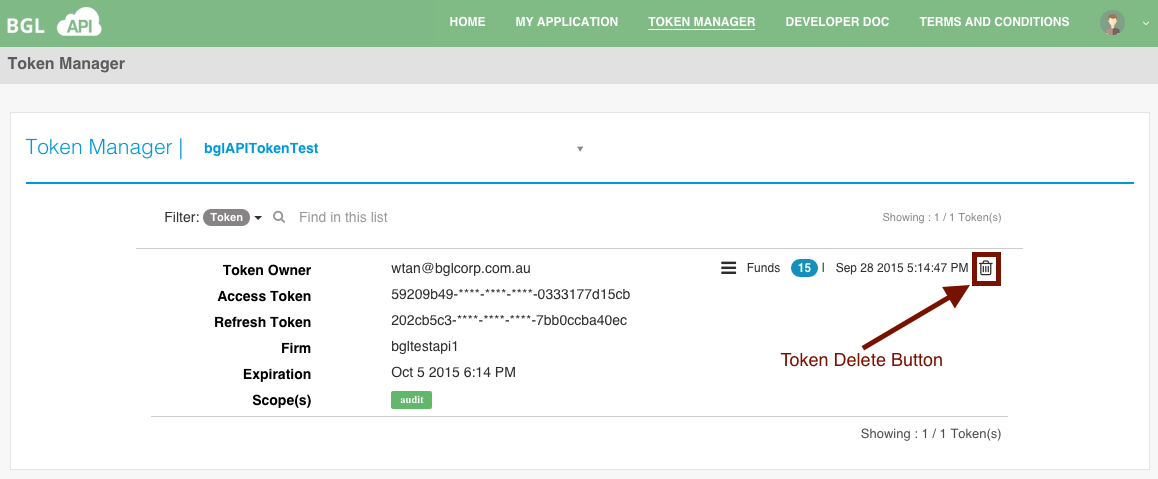
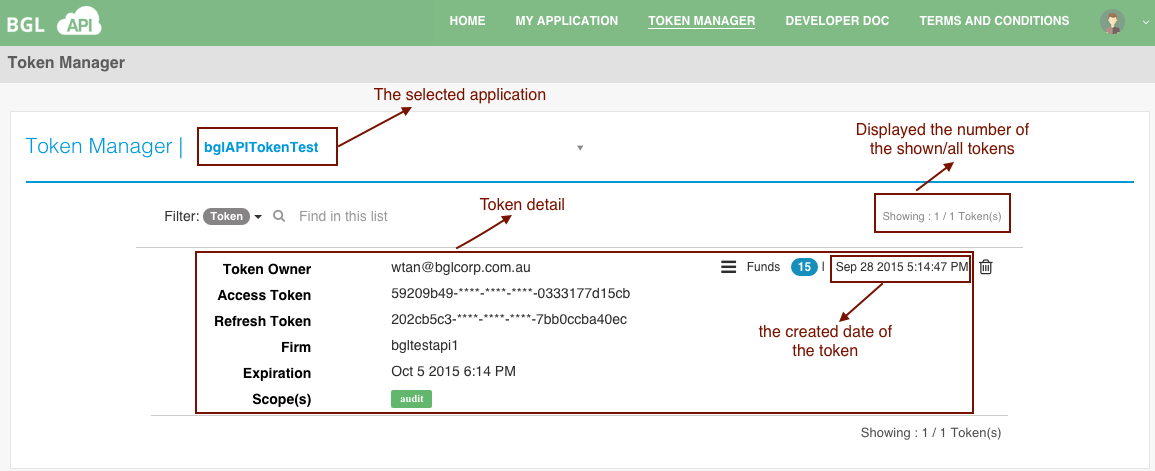
Add & Modified Token Manager .md file

diff --git a/token_manager/my_tokens.md b/token_manager/my_tokens.md
@@ -1,11 +1,10 @@
-# View Application Token
-Select **Token Manager** from the main menu.  This will take the user to the **Token Manager** page, as shown below.
+# My Tokens
 
-![Token Manager](../images/TokenManager.png)
+Select **My Tokens** from the **Select Application** menu, and the details of all tokens assigned by the current user that are displayed are as follows;
 
-Please select an application when you are at the **Token Manager** page.  The **Token Detail** would be shown on the screen after you select the specific application if this application has validate (not expired) access token(s). The details that are displayed are as follows;
+![Token Select Application](../images/MyTokenView.png)
 
-![Token Select Application](../images/ApplicationTokenView.png)
+
 
 The items in the detail are as follows.
 
@@ -16,9 +15,8 @@ The items in the detail are as follows.
 
     </tr>
     <tr>
-        <td>Token Owner</td>
-        <td>The owner of the token</td>
-
+        <td>Application Name</td>
+        <td>the application can access the data through its token</td>
     </tr>
     <tr>
         <td>Firm</td>

diff --git a/token_manager/fund_list.md b/token_manager/fund_list.md
@@ -1,18 +1,13 @@
-# Fund List
+# Accessable Funds by Token
 
-When click the token detail view, it would list all the funds related to the selected token.
+When select a token, it would list all the avaliable funds for the selected token.
 
 ![Go Token Fund List](../images/TokenFundView.png)
 
-<br>In the page, you can search the token by input the part or entire of token characters, or user name of the owner into the filter filed on the left side. And also you can find the fund response to the selected token by fund id or fund name using the filter field located at the right side.
-<br>
+Click the **Load More** button to load more funds.
 
 ![Token Fund List View](../images/TokenFundListView.png)
 
-Click the **Load More** button to load more funds.
-
 Click the **Arrow** located in the left boundary of the token box to view the token details.
-
-
 
 

diff --git a/token_manager/delete_token.md b/token_manager/delete_token.md
@@ -5,7 +5,7 @@ To delete the token:
 * Select an Application
 * Select the **Delete** button, as shown below.
 
-![Delete Token](../images/ApplicationTokenView.png)
+![Delete Token](../images/DeleteToken.png)
 
 This will delete the selected token.  If the deletion is succesful, the Token Manager will refresh to display the currently available Tokens.
 
@@ -17,7 +17,7 @@ This will delete the selected token.  If the deletion is succesful, the Token Ma
         <th>Description</th>
     </tr>
     <tr>
-        <td>Removed &lt;Token&gt; Successfully</td>
+        <td>&lt;Token&gt; was deleted successfully.</td>
         <td>If deleting the Token was successful.</td>
     </tr>
 </table>

diff --git a/token_manager/filter_function.md b/token_manager/filter_function.md
@@ -1,0 +1,17 @@
+# Filter Function
+
+In Token manager, there are two filter functions: token filter and fund filter.
+
+![Token Filter](../images/TokenFilter.png)
+
+You can search the token by the following two input:
+    - token id
+    - owner/application name
+
+![Fund Filter](../images/FundFilter.png)
+
+Also, you can find the accessable funds for the selected token with the following input:
+    - fund id
+    - fund name
+
+
